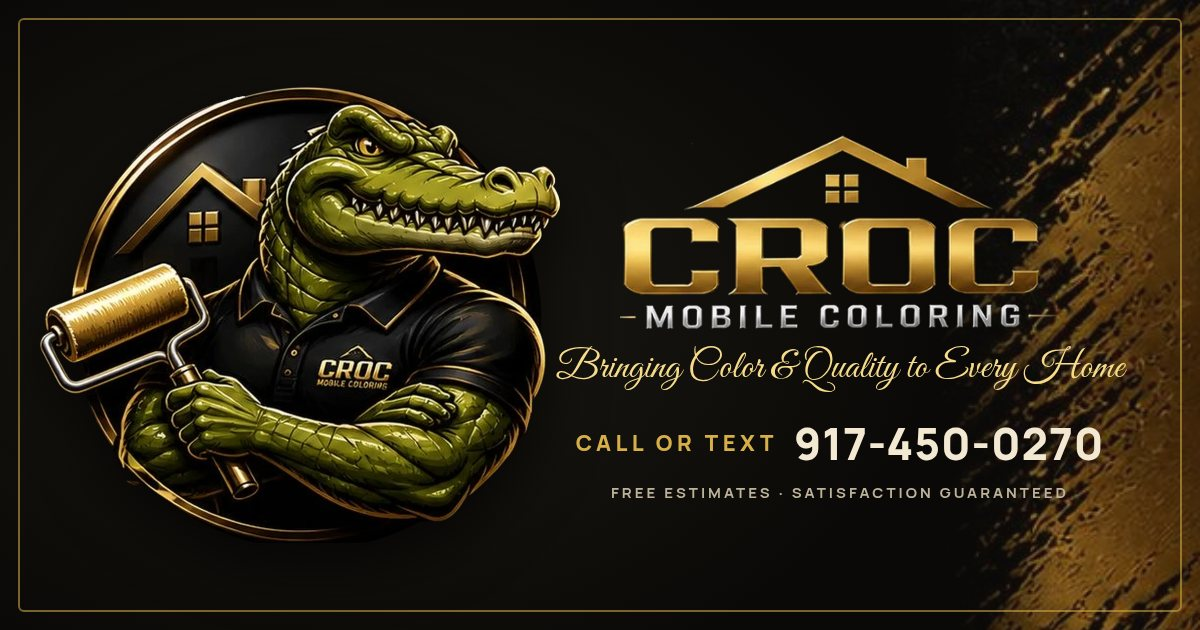
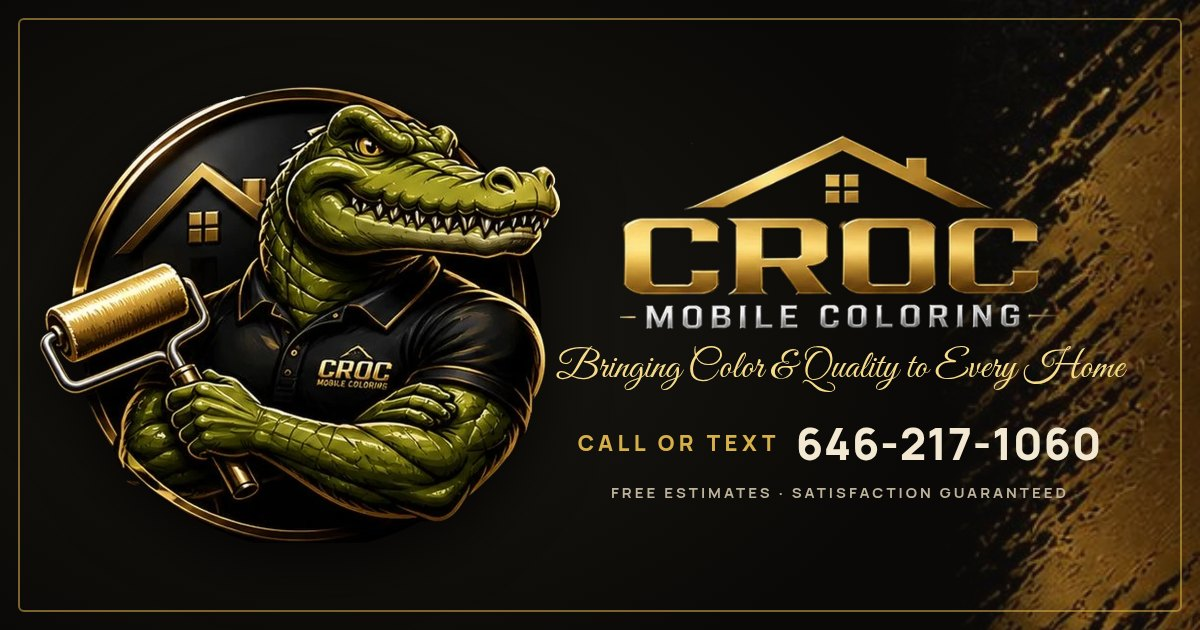
Update phone to 646-217-1060

Changed region(s): [[0.4625, 0.6635, 0.925, 0.754]]

diff --git a/index.html b/index.html
@@ -19,8 +19,8 @@
      (mascot + logo are cut from the client's banner: img/mascot-*.webp, img/logo-*.webp)
    ===================================================================== */
 window.CROC_CONFIG = {
-  phoneDisplay: "917-450-0270",
-  phoneE164:    "+19174500270",
+  phoneDisplay: "646-217-1060",
+  phoneE164:    "+16462171060",
   serviceArea:  "",   // TODO(client): e.g. "Queens, Brooklyn & Long Island"
   email:        "",   // TODO(client)
   hours:        "",   // TODO(client)
@@ -29,7 +29,7 @@ window.CROC_CONFIG = {
 };
 </script>
 <title>CROC Mobile Coloring | Interior &amp; Exterior Painting, New York Area</title>
-<meta name="description" content="CROC Mobile Coloring — interior and exterior painting and home improvements for homes and businesses in the New York area. Clean, detailed work. Free estimates. Call or text 917-450-0270.">
+<meta name="description" content="CROC Mobile Coloring — interior and exterior painting and home improvements for homes and businesses in the New York area. Clean, detailed work. Free estimates. Call or text 646-217-1060.">
 <link rel="canonical" href="https://ace9x.github.io/croc-mobile-coloring/">
 <meta name="robots" content="index,follow">
 <meta name="theme-color" content="#0A0907">
@@ -40,7 +40,7 @@ window.CROC_CONFIG = {
 <meta property="og:type" content="website">
 <meta property="og:site_name" content="CROC Mobile Coloring">
 <meta property="og:title" content="CROC Mobile Coloring — Bringing Color &amp; Quality to Every Home">
-<meta property="og:description" content="Interior &amp; exterior painting and home improvements. Residential &amp; commercial. Free estimates — call or text 917-450-0270.">
+<meta property="og:description" content="Interior &amp; exterior painting and home improvements. Residential &amp; commercial. Free estimates — call or text 646-217-1060.">
 <meta property="og:url" content="https://ace9x.github.io/croc-mobile-coloring/">
 <meta property="og:image" content="https://ace9x.github.io/croc-mobile-coloring/img/og.jpg">
 <meta property="og:image:width" content="1200">
@@ -61,7 +61,7 @@ window.CROC_CONFIG = {
   "slogan":"Bringing Color & Quality to Every Home",
   "description":"Painting and house services: interior and exterior painting and home improvements for residential and commercial customers. Free estimates. Satisfaction guaranteed.",
   "url":"https://ace9x.github.io/croc-mobile-coloring/",
-  "telephone":"+1-917-450-0270",
+  "telephone":"+1-646-217-1060",
   "image":"https://ace9x.github.io/croc-mobile-coloring/img/og.jpg",
   "logo":"https://ace9x.github.io/croc-mobile-coloring/img/logo.png",
   "areaServed":{"@type":"State","name":"New York"},
@@ -91,9 +91,9 @@ window.CROC_CONFIG = {
       <a href="#work" data-cfg-hide="photos">Recent work</a>
       <a href="#estimate">Free estimate</a>
     </nav>
-    <a class="btn btn-gold hdr-call" href="tel:+19174500270">
+    <a class="btn btn-gold hdr-call" href="tel:+16462171060">
       <svg viewBox="0 0 24 24" fill="none" stroke="currentColor" stroke-width="2.2" stroke-linecap="round" stroke-linejoin="round" aria-hidden="true"><path d="M22 16.9v3a2 2 0 0 1-2.2 2 19.8 19.8 0 0 1-8.6-3.1 19.5 19.5 0 0 1-6-6A19.8 19.8 0 0 1 2.1 4.2 2 2 0 0 1 4.1 2h3a2 2 0 0 1 2 1.7c.1.9.4 1.8.7 2.7a2 2 0 0 1-.5 2.1L8 9.8a16 16 0 0 0 6 6l1.3-1.3a2 2 0 0 1 2.1-.4c.9.3 1.8.6 2.7.7a2 2 0 0 1 1.7 2z"/></svg>
-      <span class="vh">Call </span><span class="lbl">917-450-0270</span>
+      <span class="vh">Call </span><span class="lbl">646-217-1060</span>
     </a>
   </div>
 </header>
@@ -116,9 +116,9 @@ window.CROC_CONFIG = {
     <p class="h-tag script rise d3">Bringing Color &amp; Quality to Every Home</p>
     <p class="h-lede rise d4">Interior and exterior painting and home improvements for homes and businesses. Clean, detailed work — and the estimate is free.</p>
     <div class="h-ctas rise d5">
-      <a class="btn btn-gold" href="tel:+19174500270">
+      <a class="btn btn-gold" href="tel:+16462171060">
         <svg viewBox="0 0 24 24" fill="none" stroke="currentColor" stroke-width="2.2" stroke-linecap="round" stroke-linejoin="round" aria-hidden="true"><path d="M22 16.9v3a2 2 0 0 1-2.2 2 19.8 19.8 0 0 1-8.6-3.1 19.5 19.5 0 0 1-6-6A19.8 19.8 0 0 1 2.1 4.2 2 2 0 0 1 4.1 2h3a2 2 0 0 1 2 1.7c.1.9.4 1.8.7 2.7a2 2 0 0 1-.5 2.1L8 9.8a16 16 0 0 0 6 6l1.3-1.3a2 2 0 0 1 2.1-.4c.9.3 1.8.6 2.7.7a2 2 0 0 1 1.7 2z"/></svg>
-        Call 917-450-0270</a>
+        Call 646-217-1060</a>
       <a class="btn btn-ghost" href="#estimate">Get a free estimate</a>
     </div>
     <ul class="clean h-meta rise d5" aria-label="Highlights">
@@ -199,7 +199,7 @@ window.CROC_CONFIG = {
       <p class="rv rv-d1">Simple from the first text to the final walk-through.</p>
     </div>
     <ol class="clean steps">
-      <li class="step rv"><b class="gold">01</b><h3>Call or text</h3><p>Reach us at 917-450-0270 and tell us about the job.</p></li>
+      <li class="step rv"><b class="gold">01</b><h3>Call or text</h3><p>Reach us at 646-217-1060 and tell us about the job.</p></li>
       <li class="step rv rv-d1"><b class="gold">02</b><h3>Free estimate</h3><p>We look at the space and give you a clear, free estimate.</p></li>
       <li class="step rv rv-d2"><b class="gold">03</b><h3>Clean, detailed work</h3><p>Careful prep, quality coats and a clean site every day.</p></li>
       <li class="step rv rv-d3"><b class="gold">04</b><h3>Satisfaction guaranteed</h3><p>We make sure you're happy with the finished job.</p></li>
@@ -224,7 +224,7 @@ window.CROC_CONFIG = {
       <p class="eyebrow rv">Free estimate</p>
       <h2 id="est-title" class="rv">Let's bring the <span class="gold">color.</span></h2>
       <p class="rv">Fill this out and your phone's texting app opens with your details ready to send to CROC. Prefer to talk? Just call.</p>
-      <a class="bigphone gold rv" href="tel:+19174500270">917-450-0270</a>
+      <a class="bigphone gold rv" href="tel:+16462171060">646-217-1060</a>
       <p class="rv" style="margin:0">Call or text</p>
       <p class="rv" data-cfg-hide="hours" style="margin-top:.6rem"><span data-cfg-text="hours"></span></p>
     </div>
@@ -248,11 +248,11 @@ window.CROC_CONFIG = {
         <button class="btn btn-gold" type="submit">
           <svg viewBox="0 0 24 24" fill="none" stroke="currentColor" stroke-width="2.2" stroke-linecap="round" stroke-linejoin="round" aria-hidden="true"><path d="M21 12a8 8 0 0 1-11.8 7L3 21l2-6.2A8 8 0 1 1 21 12z"/></svg>
           Text my estimate request</button>
-        <a class="btn btn-ghost" href="tel:+19174500270">Call now</a>
+        <a class="btn btn-ghost" href="tel:+16462171060">Call now</a>
       </div>
-      <p class="f-note" id="f-note"><svg viewBox="0 0 24 24" fill="none" stroke="currentColor" stroke-width="2" stroke-linecap="round" stroke-linejoin="round" aria-hidden="true"><circle cx="12" cy="12" r="9"/><path d="M12 11v6M12 7.5v.5"/></svg><span>This opens your phone's texting app with a message to 917-450-0270. Nothing is sent until you press send — your info isn't stored on this website.</span></p>
+      <p class="f-note" id="f-note"><svg viewBox="0 0 24 24" fill="none" stroke="currentColor" stroke-width="2" stroke-linecap="round" stroke-linejoin="round" aria-hidden="true"><circle cx="12" cy="12" r="9"/><path d="M12 11v6M12 7.5v.5"/></svg><span>This opens your phone's texting app with a message to 646-217-1060. Nothing is sent until you press send — your info isn't stored on this website.</span></p>
       <div class="fallback" id="fallback" hidden aria-live="polite">
-        <strong>Not on a phone?</strong> Text this message to <a href="sms:+19174500270">917-450-0270</a>:
+        <strong>Not on a phone?</strong> Text this message to <a href="sms:+16462171060">646-217-1060</a>:
         <pre id="fb-msg"></pre>
         <button class="btn btn-ghost" type="button" id="copy" style="min-height:44px">Copy message</button>
       </div>
@@ -265,8 +265,8 @@ window.CROC_CONFIG = {
     <p class="script" style="font-size:clamp(1.8rem,5vw,2.6rem);margin:0">Satisfaction guaranteed</p>
     <h2 id="band-title" class="rv">Ready for a home that <span class="gold">stands out?</span></h2>
     <div class="row rv">
-      <a class="btn btn-gold" href="tel:+19174500270">Call 917-450-0270</a>
-      <a class="btn btn-ghost" href="sms:+19174500270">Text us</a>
+      <a class="btn btn-gold" href="tel:+16462171060">Call 646-217-1060</a>
+      <a class="btn btn-ghost" href="sms:+16462171060">Text us</a>
     </div>
   </div>
 </section>
@@ -282,8 +282,8 @@ window.CROC_CONFIG = {
       <div>
         <h3>Contact</h3>
         <ul class="clean">
-          <li>Call: <a href="tel:+19174500270">917-450-0270</a></li>
-          <li>Text: <a href="sms:+19174500270">917-450-0270</a></li>
+          <li>Call: <a href="tel:+16462171060">646-217-1060</a></li>
+          <li>Text: <a href="sms:+16462171060">646-217-1060</a></li>
           <li data-cfg-hide="email">Email: <a data-cfg-mail href="#"></a></li>
           <li data-cfg-hide="hours"><span data-cfg-text="hours"></span></li>
         </ul>
@@ -306,9 +306,9 @@ window.CROC_CONFIG = {
 </footer>
 
 <nav class="mbar" id="mbar" aria-label="Quick contact">
-  <a class="btn btn-gold" href="tel:+19174500270">
+  <a class="btn btn-gold" href="tel:+16462171060">
     <svg viewBox="0 0 24 24" fill="none" stroke="currentColor" stroke-width="2.2" stroke-linecap="round" stroke-linejoin="round" aria-hidden="true"><path d="M22 16.9v3a2 2 0 0 1-2.2 2 19.8 19.8 0 0 1-8.6-3.1 19.5 19.5 0 0 1-6-6A19.8 19.8 0 0 1 2.1 4.2 2 2 0 0 1 4.1 2h3a2 2 0 0 1 2 1.7c.1.9.4 1.8.7 2.7a2 2 0 0 1-.5 2.1L8 9.8a16 16 0 0 0 6 6l1.3-1.3a2 2 0 0 1 2.1-.4c.9.3 1.8.6 2.7.7a2 2 0 0 1 1.7 2z"/></svg>Call</a>
-  <a class="btn btn-ghost" href="sms:+19174500270">
+  <a class="btn btn-ghost" href="sms:+16462171060">
     <svg viewBox="0 0 24 24" fill="none" stroke="currentColor" stroke-width="2.2" stroke-linecap="round" stroke-linejoin="round" aria-hidden="true"><path d="M21 12a8 8 0 0 1-11.8 7L3 21l2-6.2A8 8 0 1 1 21 12z"/></svg>Text</a>
 </nav>
 

diff --git a/tools/og.html b/tools/og.html
@@ -12,5 +12,5 @@ body{margin:0;width:1200px;height:630px;overflow:hidden;position:relative;backgr
 </style></head><body><div class="brush"></div><div class="frame"></div>
 <img class="m" src="../img/mascot-1040.webp">
 <div class="r"><img src="../img/logo-480.webp"><em>Bringing Color &amp; Quality to Every Home</em>
-<div class="ph">Call or text <b>917-450-0270</b></div><div class="sm">Free estimates · Satisfaction guaranteed</div></div>
+<div class="ph">Call or text <b>646-217-1060</b></div><div class="sm">Free estimates · Satisfaction guaranteed</div></div>
 </body></html>

diff --git a/app.js b/app.js
@@ -28,7 +28,7 @@
 
   // Estimate form -> prefilled SMS
   const f = document.getElementById('est-form'); if (!f) return;
-  const num = C.phoneE164 || '+19174500270';
+  const num = C.phoneE164 || '+16462171060';
   const fields = [['f-name', 'e-name', 'Please add your name.'], ['f-place', 'e-place', 'Please add an address or neighborhood.'], ['f-job', 'e-job', 'Please choose a type of job.']];
   f.addEventListener('submit', ev => {
     ev.preventDefault();
